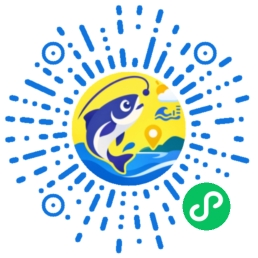
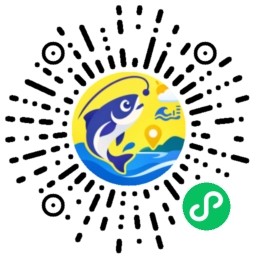
fix:小程序码换成彩色的那张，别再转灰度
上一条提交把小程序码转成了灰度 PNG —— 那是错的。

错在哪：那张码**八成像素确实是灰的**（白底 + 黑环占了绝大多数），
于是很容易得出「这本来就是张灰度图，转一下无损」的结论。
但剩下那两成是整张码的品牌：中间蓝鱼黄圈、右下角绿色微信角标。
转灰度看着「没损失多少像素」，实际上把那部分全弄没了。

**教训：按面积算比例会骗人，要看那部分是什么。**
「82% 的像素是灰的」这句话本身没错，错的是拿它推出「所以转灰度无所谓」——
占面积大不等于可有可无。白底占了八成，而白底恰恰是最不值钱的那部分。

换成本轮给的新码（黑环那张），源图存 scripts/assets/，
产物是无损 RGB PNG（45KB）。仍不能压成 1-bit：
那张码中间的鱼是网点画的，阈值化会打成一片碎点，码直接废掉。

顺带把模式逐张定死，不再「反正先转 RGBA」——
给不透明的图加透明通道，那几个字节永远是 alpha=255，白占 5KB。

台架上验过：黄色圆盘、蓝鱼、黑环、绿角标都在，
右下角那个绿角标没被裁掉（码位在存根区，裁切带够不着）。

HANDOFF.MD 里把上一版「灰度是安全的那一档」的说法改掉了 ——
那句话就是错的，留着会有人照着再踩一遍。

diff --git a/HANDOFF.MD b/HANDOFF.MD
@@ -312,13 +312,13 @@ CSS 里只写 `var(--band-top)`。同理，**版面的数字在 `src/utils/poste
 **做法**：产物由脚本生成，源图在 `scripts/assets/`，跑 `pnpm assets` 重新出。
 **产物不手改。**
 
-关键在**两张图用了不同格式**，这不是随手挑的：
+关键在**三张图用了不同格式**，这不是随手挑的：
 
 | 图                | 格式 | 理由                                                |
 | ----------------- | ---- | --------------------------------------------------- |
 | 占位插画 spots    | jpg | **要进 canvas**（海报），那条路只认 jpg/png        |
 | 应用 logo        | webp| 只在 `<image>` 里出现，不进 canvas；WebP 带 alpha    |
-| 小程序码 wxacode | png | 黑白高对比，JPEG 会把边界糊了 —— 糊了就扫不出来    |
+| 小程序码 wxacode | png | 彩色码，JPEG 一压色度噪点就把边界糊了              |
 
 占位插画要是也存成 WebP，就能在海报上省 100KB。**没省，是故意的**：
 `canvas.createImage()` 的 src 官方只承诺网络地址与 base64 Data URI，
@@ -326,14 +326,34 @@ CSS 里只写 `var(--band-top)`。同理，**版面的数字在 `src/utils/poste
 对不上画布就解不出图，对得上也未必每个基础库都认 WebP。
 少 100KB 不值得拿「海报上少一块图」去换。
 
-小程序码反过来：它是 JPEG，JPEG 把「白」也存成色度噪点，
-压缩时为了省色度把黑白边界一起糊了。换成**灰度 PNG**（21KB）——
-亮度一格不差，边界比原来干净。
+小程序码是**彩色的**（中间蓝鱼黄圈、右下角绿色微信角标），
+所以只能无损 PNG：JPEG 把「黄」和「绿」压出色度噪点，
+而那张码靠对比度识别，糊了就扫不出来。
 
-⚠ **小程序码不能压成 1-bit**。看着「黑白图就该是 1-bit」，
+⚠ **两个坑，一个比一个隐蔽。**
+
+**压成 1-bit 是错的。** 看着「黑白图就该是 1-bit」，
 但那张码中间的鱼是**网点（半调）**画的，不是实心模块 ——
 阈值化会把它打成一片碎点，码直接废掉。
-**灰度是安全的那一档**：不丢信息，只换个无损的容器装。
+
+**转灰度更隐蔽 —— 这个坑真的踩过。**
+那张码**八成像素确实是灰的**（白底 + 黑环占了绝大多数），
+于是很容易得出「这本来就是张灰度图，转一下无损」的结论：
+灰度 PNG 一拍出来 21KB，比原来的 62KB 小得多，看着还挺漂亮。
+
+但那剩下两成是整张码的**品牌**：蓝鱼、黄圈、绿角标。
+转灰度看着「没损失多少像素」，实际上把那部分全弄没了。
+
+**教训：按面积算比例会骗人，要看那部分是什么。**
+「82% 的像素是灰的」这句话本身没错，错的是拿它推出「所以转灰度无所谓」——
+占面积大不等于可有可无。白底占了八成，而白底恰恰是最不值钱的那部分。
+
+被这一条盖过去的不只是颜色：海报上那块码是**整张海报最硬的失败点** ——
+「扫不出来」比「不好看」严重得多。改这张图之前先想清楚它在海报上承担什么。
+
+顺带一条：**不透明的图别加透明通道。**
+那张码不需要 alpha，而给 RGBA 加出来的 alpha 全是 255，白占 5KB。
+模式逐张定死，别「反正先转 RGBA」。
 
 ---
 
